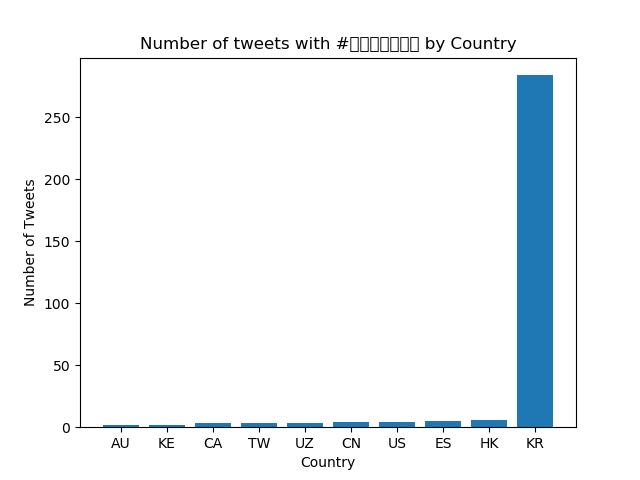
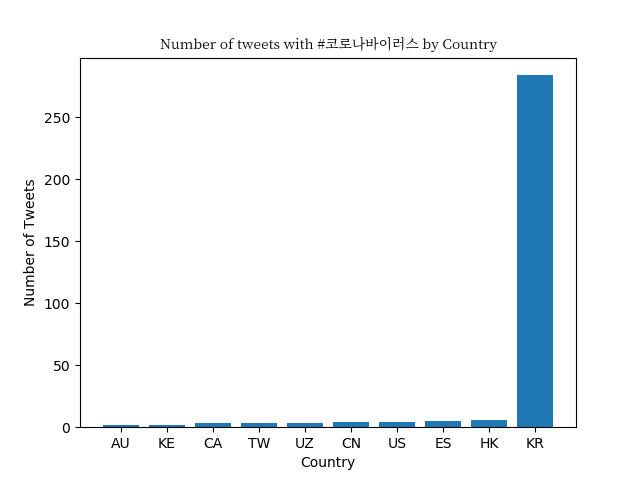
tried directly using filename

Changed region(s): [[0.2188, 0.0625, 0.8125, 0.125]]

diff --git a/src/visualize.py b/src/visualize.py
@@ -13,12 +13,16 @@ import os
 import json
 from collections import Counter,defaultdict
 import matplotlib
-
+import matplotlib.font_manager
 # Use this so that we can create graphs without printing them somewhere immediately
 matplotlib.use('Agg')
-import matplotlib.pyplot as plt
-matplotlib.rcParams['font.family'] = ['Source Han Sans TW', 'sans-serif', 'Noto Mono']
+# matplotlib.rcParams['font.family'] = 'NotoSerif' #['Source Han Sans TW', 'sans-serif', 'Noto Serif KR']
+path = '/home/chom/.fonts/NotoSerifKR-Regular.otf'
+prop = matplotlib.font_manager.FontProperties(fname=path)
+#matplotlib.rcParams['font.family'] = prop.get_name()
+fp = matplotlib.font_manager.FontProperties(fname=path)
 
+import matplotlib.pyplot as plt
 # open the input path
 with open(args.input_path) as f:
     counts = json.load(f)
@@ -48,6 +52,6 @@ plt.ylabel("Number of Tweets")
 lang = "English"
 if args.key != "#coronavirus":
     lang = "Korean"
-plt.title("Number of tweets with " + args.key + " by " + xLabel) 
+plt.title("Number of tweets with " + args.key + " by " + xLabel, fontproperties=fp) 
 plt.xticks(x_arr, [k for k, v in top_10_items])
 plt.savefig("./graphs/" + args.input_path + args.key + ".png")
